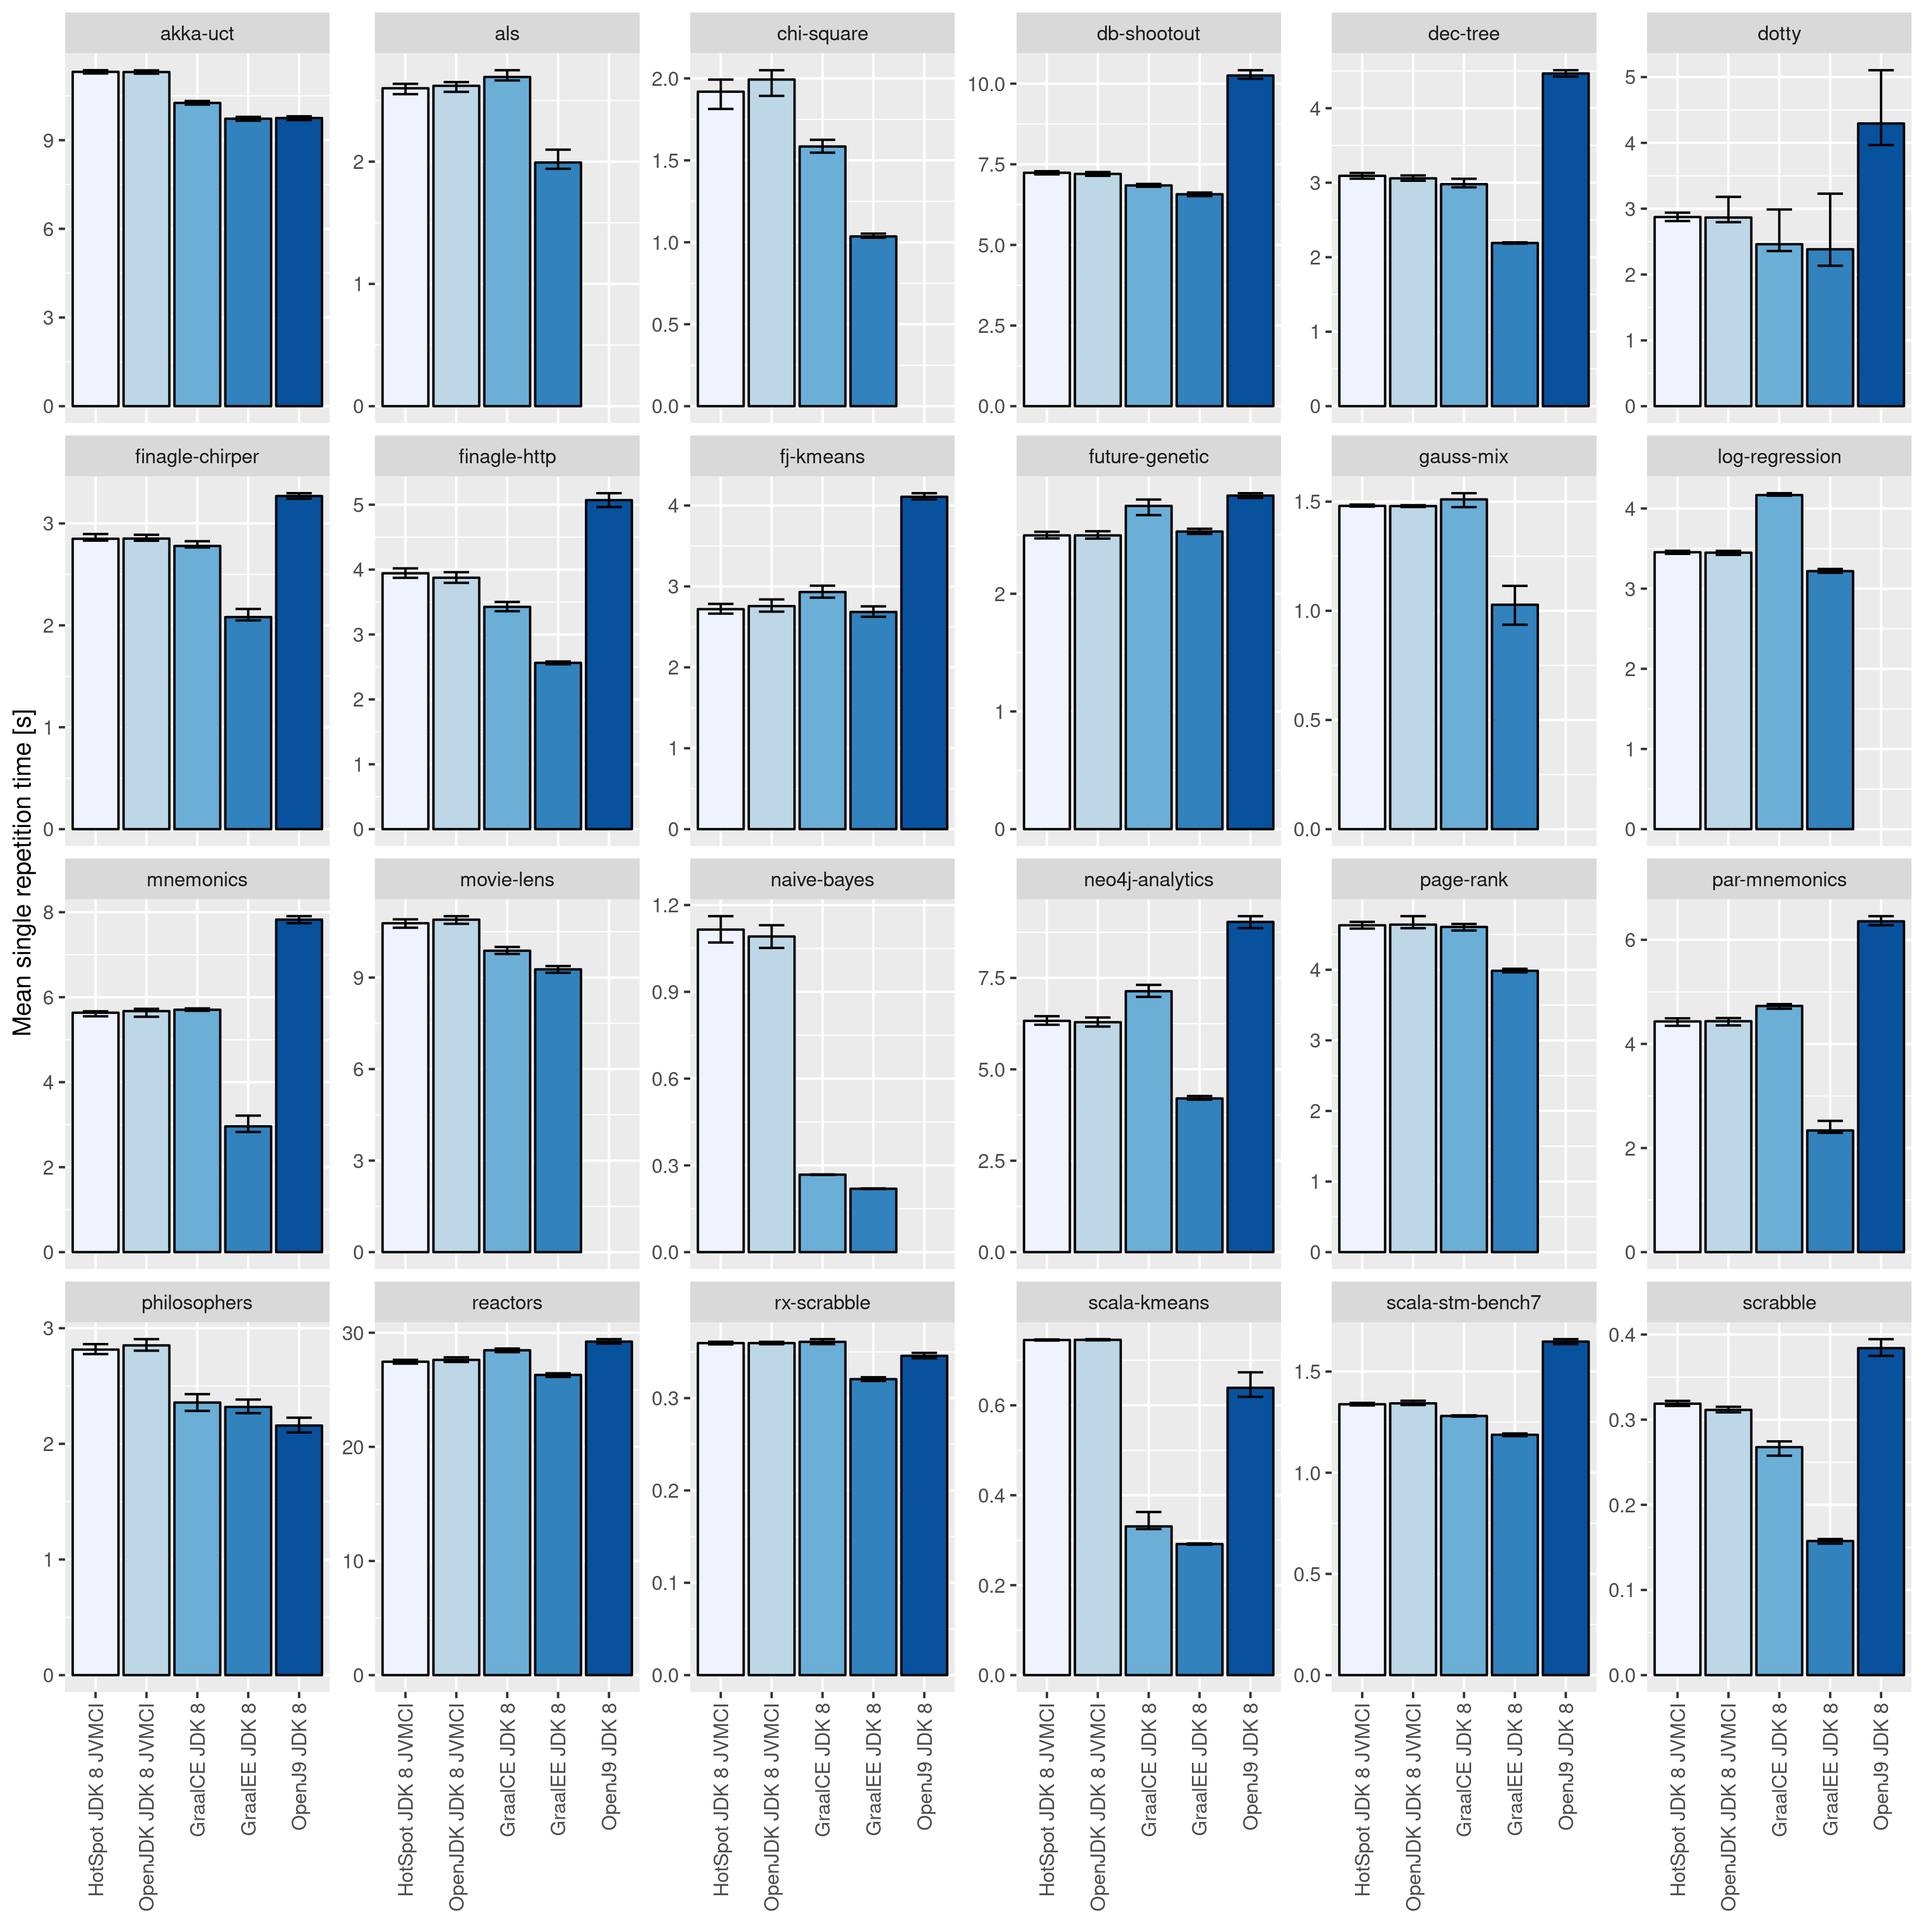
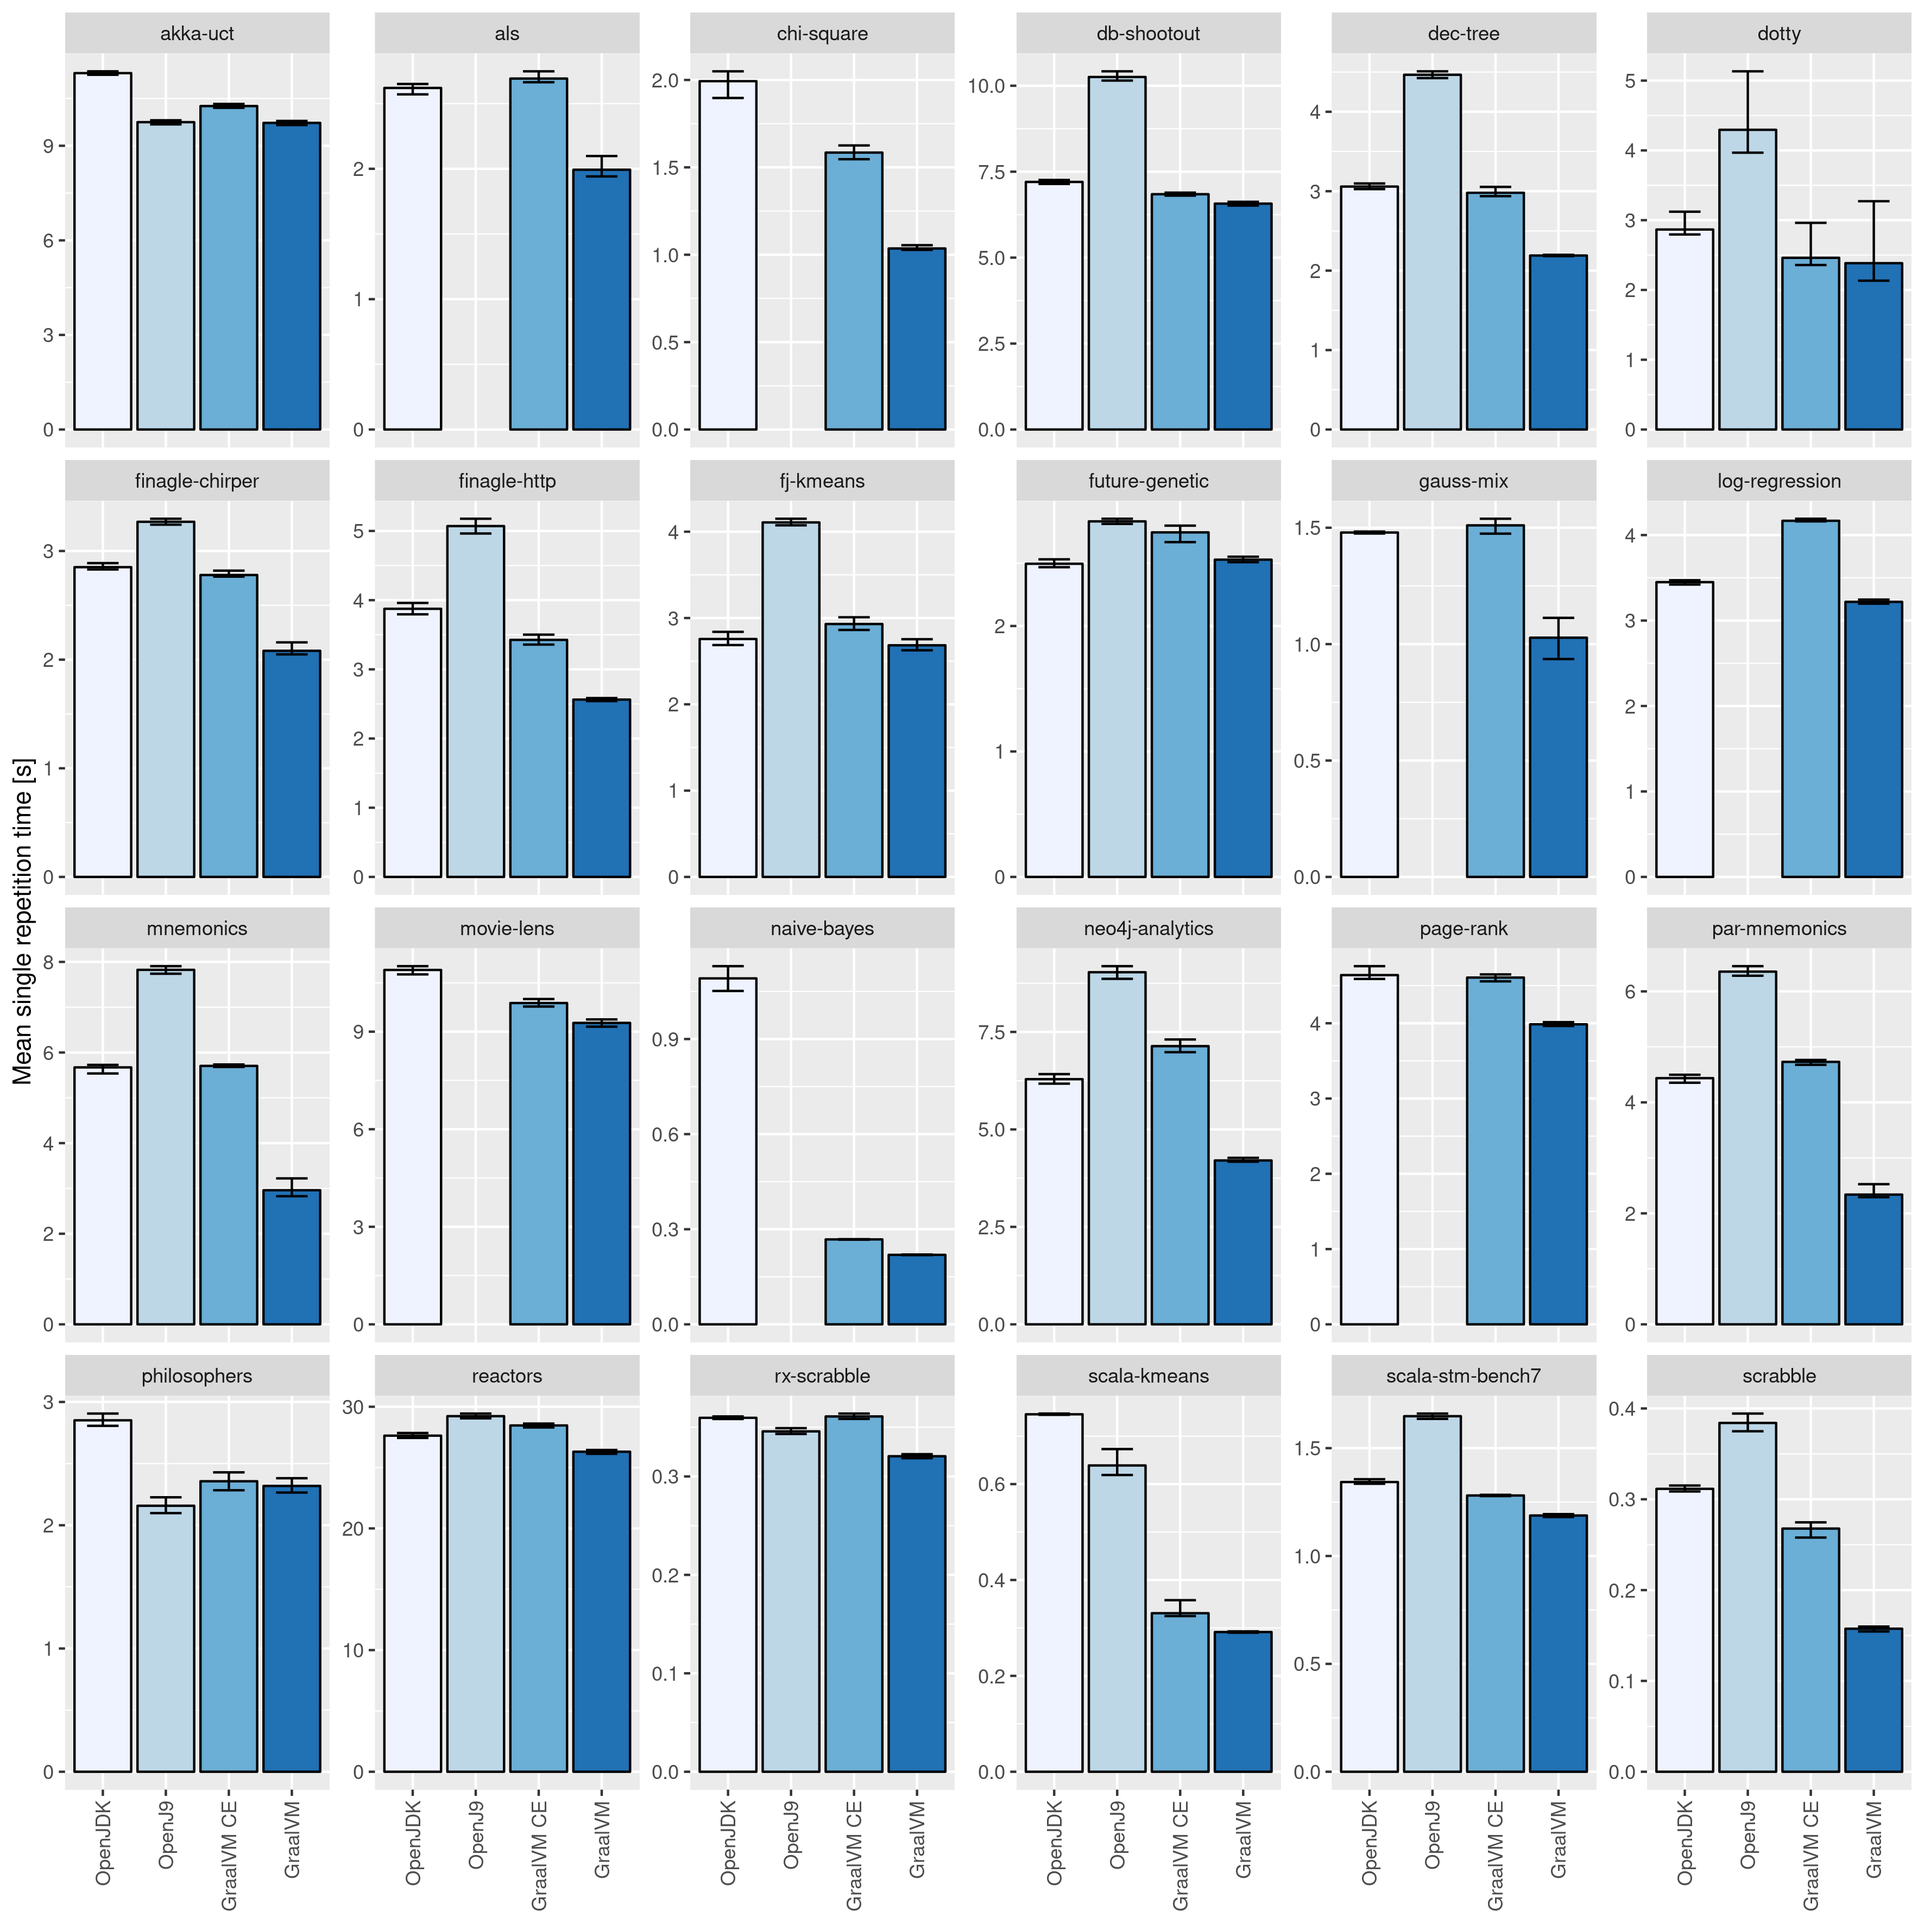
Summary stripe with relative measurements for the Renaissance website.

diff --git a/README.md b/README.md
@@ -28,25 +28,9 @@ Except as noted below, other settings were left at default values.
 
 The JVM implementations referenced in the results are:
 
-- **GraalCE JDK 8** is Graal Community Edition 1.0.0-rc16.
-```
-> java -version
-openjdk version "1.8.0_202"
-OpenJDK Runtime Environment (build 1.8.0_202-20190206132807.buildslave.jdk8u-src-tar--b08)
-OpenJDK GraalVM CE 1.0.0-rc16 (build 25.202-b08-jvmci-0.59, mixed mode)
-```
+- **OpenJDK** is the Graal Community Edition JVM implementation run with `-XX:-EnableJVMCI -XX:-UseJVMCICompiler` to force the use of the default OpenJDK JIT compiler.
 
-- **GraalEE JDK 8** is Graal Enterprise Edition 1.0.0-rc16.
-```
-> java -version
-java version "1.8.0_202"
-Java(TM) SE Runtime Environment (build 1.8.0_202-b08)
-Java HotSpot(TM) GraalVM EE 1.0.0-rc16 (build 25.202-b08-jvmci-0.59, mixed mode)
-```
-
-- **HotSpot JDK 8 JVMCI** is the Graal Enterprise Edition JVM implementation run with `-XX:-EnableJVMCI -XX:-UseJVMCICompiler` to force the use of the default HotSpot JIT compiler.
-
-- **OpenJ9 JDK 8** is the Eclipse OpenJ9 JVM implementation.
+- **OpenJ9** is the Eclipse OpenJ9 JVM implementation.
 ```
 java -version
 openjdk version "1.8.0_212"
@@ -57,7 +41,21 @@ OMR      - 4a4278e6
 JCL      - 5590c4f818 based on jdk8u212-b03)
 ```
 
-- **OpenJDK JDK 8 JVMCI** is the Graal Community Edition JVM implementation run with `-XX:-EnableJVMCI -XX:-UseJVMCICompiler` to force the use of the default OpenJDK JIT compiler.
+- **GraalVM CE** is Graal Community Edition 1.0.0-rc16.
+```
+> java -version
+openjdk version "1.8.0_202"
+OpenJDK Runtime Environment (build 1.8.0_202-20190206132807.buildslave.jdk8u-src-tar--b08)
+OpenJDK GraalVM CE 1.0.0-rc16 (build 25.202-b08-jvmci-0.59, mixed mode)
+```
+
+- **GraalVM** is Graal Enterprise Edition 1.0.0-rc16.
+```
+> java -version
+java version "1.8.0_202"
+Java(TM) SE Runtime Environment (build 1.8.0_202-b08)
+Java HotSpot(TM) GraalVM EE 1.0.0-rc16 (build 25.202-b08-jvmci-0.59, mixed mode)
+```
 
 #### Mean Repetition Times
 
